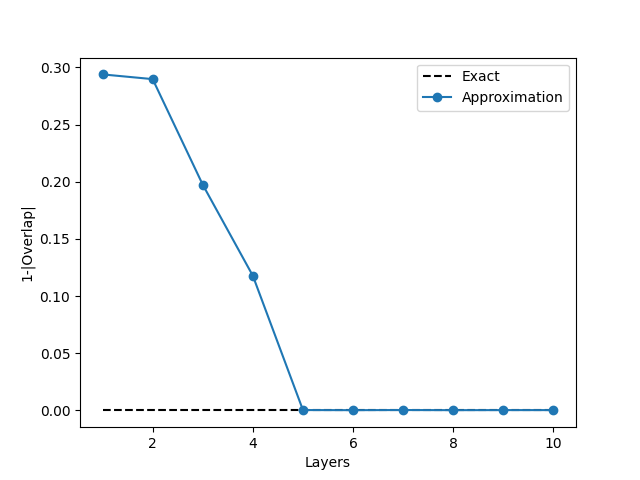
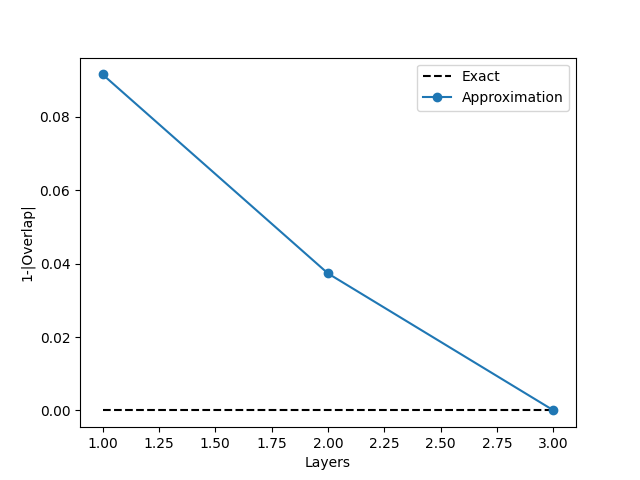
changed plotting functions to take array of approximations

diff --git a/Luca/Coding and Latex/Python/plots_9.py b/Luca/Coding and Latex/Python/plots_9.py
@@ -4,25 +4,24 @@ import ExactDiag_21 as ed
 import Entropy as en
 import matplotlib.pyplot as plt
 
-N = 6
-j,h = 1,1
-exactD = ed.exactDiag(N, j, h)
-psiTarget = exactD[2].reshape(tuple([2]*N))
-exactE = exactD[1]
-H = exactD[0]
+# N = 6
+# j,h = 1,1
+# exactD = ed.exactDiag(N, j, h)
+# psiTarget = exactD[2].reshape(tuple([2]*N))
+# exactE = exactD[1]
+# H = exactD[0]
 
-def plotEnergy(psiTarget,exactE,H,maxLayers):
+def plotEnergy(psiTarget,approxStates,exactE,H):
 	N = len(psiTarget.shape)
 	fig, ax = plt.subplots()
-	x = range(1,maxLayers+1)
-	ax.plot([1,maxLayers],[exactE,exactE],'--k',label='Exact')
+	x = range(1,len(approxStates)+1)
+	ax.plot([1,len(approxStates)],[exactE,exactE],'--k',label='Exact')
 	ax.set_xlabel('Layers')
 	ax.set_ylabel('Energy')
 	E = []
 
-	for layer in x:
-		circuit = bw.BrickWallCircuit(N, layer)
-		approx = circuit.optimize(psiTarget,0.00001,1000*layer).flatten()
+	for approx in approxStates:
+		approx = approx.flatten()
 		E.append(np.vdot(approx,np.matmul(H,approx)))
 
 	ax.plot(x,E,'o-',label='Approximation')
@@ -30,18 +29,17 @@ def plotEnergy(psiTarget,exactE,H,maxLayers):
 	fig.savefig('../plots/energyPlot.png',format='png')
 	plt.show()
 
-def plotOvelap(psiTarget,maxLayers):
+def plotOvelap(psiTarget,approxStates):
 	N = len(psiTarget.shape)
 	fig, ax = plt.subplots()
-	x = range(1,maxLayers+1)
-	ax.plot([1,maxLayers],[0,0],'--k',label='Exact')
+	x = range(1,len(approxStates)+1)
+	ax.plot([1,len(approxStates)],[0,0],'--k',label='Exact')
 	ax.set_xlabel('Layers')
 	ax.set_ylabel('1-|Overlap|')
 	overlap = []
 
-	for layer in x:
-		circuit = bw.BrickWallCircuit(N, layer)
-		approx = circuit.optimize(psiTarget,0.00001,1000*layer).flatten()
+	for approx in approxStates:
+		approx = approx.flatten()
 		overlap.append(np.abs(np.vdot(approx,psiTarget.flatten())))
 
 	ax.plot(x,1-np.array(overlap),'o-',label='Approximation')
@@ -49,7 +47,7 @@ def plotOvelap(psiTarget,maxLayers):
 	fig.savefig('../plots/overlapPlot.png',format='png')
 	plt.show()
 
-def plotS(psiTarget,layers):
+def plotS(psiTarget,approxStates,layers):
 	N = len(psiTarget.shape)
 	bond = range(N+1)
 	fig, ax = plt.subplots()
@@ -58,22 +56,18 @@ def plotS(psiTarget,layers):
 	ax.set_xlabel('i bond')
 	ax.set_ylabel('Entropy')
 
-	for layer in layers:
-		circuit = bw.BrickWallCircuit(N, layer)
-		approx = circuit.optimize(psiTarget,0.00001,1000*layer)
-
+	for approx,layer in zip(approxStates,layers):
 		enApprox = [en.S(range(1,i+1), approx) for i in bond]
-
-		ax.plot(bond,enApprox,'o-', label=f'{layer} Layers')
+		ax.plot(bond,enApprox,'o-',label=f'{layer} Layers')
 
 
 	ax.legend()
 	fig.savefig('../plots/entropyPlots.png',format='png')
 	plt.show()
 
-def plotMatrixI(psiTarget,layers):
+def plotMatrixI(psiTarget,approxStates,layers):
 	N = len(psiTarget.shape)
-	fig , axs = plt.subplots(1,len(layers)+1,layout='constrained')
+	fig , axs = plt.subplots(1,len(approxStates)+1,layout='constrained')
 	alpha = ['']+list(range(1,N+1))
 
 	exact = en.matrixI(psiTarget)
@@ -85,9 +79,7 @@ def plotMatrixI(psiTarget,layers):
 	axs[0].set_yticklabels(alpha)
 	axs[0].set_title(f'Exact', weight='bold')
 
-	for layer in layers:
-		circuit = bw.BrickWallCircuit(8, layer)
-		approx = circuit.optimize(psiTarget,0.00001,1000*layer)
+	for approx,layer in zip(approxStates,layers):
 		matrixApprox = en.matrixI(approx) 
 
 		axs[layer].matshow(matrixApprox,cmap=plt.cm.Oranges)
@@ -99,7 +91,7 @@ def plotMatrixI(psiTarget,layers):
 	fig.savefig('../plots/matrixCmPlots.png',format='png')
 	plt.show()
 
-def plotJ(psiTarget,layers,log=False):
+def plotJ(psiTarget,approxStates,layers,log=False):
 	N = len(psiTarget.shape)
 	fig, ax  = plt.subplots()
 	d = np.array(range(1,N))
@@ -115,9 +107,7 @@ def plotJ(psiTarget,layers,log=False):
 		ax.set_xlabel('d')
 		ax.set_ylabel('J')
 
-	for layer in layers:
-		circuit = bw.BrickWallCircuit(N, layer)
-		approx = circuit.optimize(psiTarget,0.00001,1000*layer)
+	for approx,layer in zip(approxStates,layers):
 		approxJ = np.array([en.J(dist, approx) for dist in d])
 
 		ax.plot(d,approxJ,'o-',label=f'Layers: {layer}')
@@ -129,14 +119,14 @@ def plotJ(psiTarget,layers,log=False):
 	ax.legend()
 	plt.show() 
 
-def plotOvelap_sweeps(psiTarget,j,h,layers,maxIterations,runs):
+def plotOvelap_sweeps(psiTarget,j,h,approxStatesRand,approxStatesId,layers):
 	N = len(psiTarget.shape)
 	fig, ax = plt.subplots(len(layers),2,layout='constrained')
 
-	for layer in layers:
-		for  i in range(runs):
-			circuit = bw.BrickWallCircuit(N, layer,gatesRandomFlag=True)
-			overlapArray, criteria1, criteria2 = circuit.optimize(psiTarget, 0.001, maxIterations)[1:]
+	for approxRBach,approxIdBach,layer in zip(approxStatesRand,approxStatesId,layers):
+		#layer = np.where(approxStatesRand==approxR)[0][0]+1
+		for  approxR,approxId in zip(approxRBach,approxIdBach):
+			overlapArray, criteria1, criteria2 = approxR
 			ax[layer-1,0].plot(range(1,len(overlapArray)+1),1-overlapArray, '-b')
 			if criteria1!=None:	
 				ax[layer-1,0].plot(criteria1[0],1-criteria1[1],'xr')
@@ -147,8 +137,7 @@ def plotOvelap_sweeps(psiTarget,j,h,layers,maxIterations,runs):
 			ax[layer-1,0].set_ylabel('log(1-|Overlap|)')
 			ax[layer-1,0].set_xlabel('log(sweeps)')
 
-			circuit = bw.BrickWallCircuit(N, layer)
-			overlapArray, criteria1, criteria2 = circuit.optimize(psiTarget, 0.001, maxIterations)[1:]
+			overlapArray, criteria1, criteria2 = approxId
 			ax[layer-1,1].plot(range(1,len(overlapArray)+1),1-overlapArray,'-b')
 			if criteria1!=None:
 				ax[layer-1,1].plot(criteria1[0],1-criteria1[1],'xr')
@@ -171,4 +160,4 @@ def plotOvelap_sweeps(psiTarget,j,h,layers,maxIterations,runs):
 #plotJ(psiTarget, [1,2,3],True)
 #plotEnergy(psiTarget, exactE, H, 10)
 #plotOvelap(psiTarget, 10)
-plotOvelap_sweeps(psiTarget,j,h, [1,2,3], 300, 10)
+#plotOvelap_sweeps(psiTarget,j,h, [1,2,3], 300, 10)

diff --git a/Luca/Coding and Latex/Python/testing.py b/Luca/Coding and Latex/Python/testing.py
@@ -2,19 +2,30 @@ import numpy as np
 import BrickWall_51 as bw
 import ExactDiag_21 as ed
 import Entropy as en
+import plots_9 as plts
 
-circuit = bw.BrickWallCircuit(6,3, gatesRandomFlag=False)
-psiTarget = ed.exactDiag(circuit.N, 1, 1)[2].reshape(tuple([2]*circuit.N))
+N = 6
+j,h = 1,1
+exactD = ed.exactDiag(N, j, h)
+psiTarget = exactD[2].reshape(tuple([2]*N))
+exactE = exactD[1]
+H = exactD[0]
+
+#circuit = bw.BrickWallCircuit(6,3, gatesRandomFlag=False)
+#print(circuit.optimize(psiTarget,0.0001,500)[1:])
 #psiTarget = (1/np.sqrt(2))*np.array([1,0,0,1]).reshape(2,2) #bell state
-# A = [1,4,5]
-# B = [2]
 
-# entropy = en.S([1,4,5], psiTarget)
-# print(entropy)
+layers = [1,2,3]
+approxStates = [bw.BrickWallCircuit(N,M,gatesRandomFlag=True).optimize(psiTarget, 0.0001, 1000)[0] for M in layers]
 
-# mutualI = en.I(A,B, psiTarget)
-# print(mutualI)
+plts.plotEnergy(psiTarget, approxStates, exactE, H)
+plts.plotOvelap(psiTarget, approxStates)
+plts.plotS(psiTarget, approxStates,layers)
+plts.plotMatrixI(psiTarget, approxStates,layers)
+plts.plotJ(psiTarget, approxStates,layers)
+plts.plotJ(psiTarget, approxStates,layers,log=True)
 
-# print(np.array(en.matrixI(psiTarget)))
+approxStatesRand = [[bw.BrickWallCircuit(N,M,gatesRandomFlag=True).optimize(psiTarget, 0.0001, 1000)[1:] for i in range(10)] for M in layers]
+approxStatesId = [[bw.BrickWallCircuit(N,M,gatesRandomFlag=False).optimize(psiTarget, 0.0001, 1000)[1:] for i in range(10)] for M in layers]
 
-print(circuit.optimize(psiTarget,0.0001,1000)[2:])
+plts.plotOvelap_sweeps(psiTarget, j, h, approxStatesRand, approxStatesId,layers)

diff --git a/Luca/Coding and Latex/Python/BrickWall_51.py b/Luca/Coding and Latex/Python/BrickWall_51.py
@@ -84,6 +84,7 @@ class BrickWallCircuit:
 				nrGatesOnLayer = int(np.floor((self.N-indexLayer%2)/2))
 				for gateIndex in range(nrGatesOnLayer): #iterate through gates on that layer
 					E, gateRm = self.removeGate(psiTarget,indexLayer,gateIndex)
+					#E_new = gateRm + 0.5*E
 					W, sigma, Vdagger = np.linalg.svd(np.conjugate(E.reshape(4,4)))
 					newGate = np.matmul(W,Vdagger).reshape(2,2,2,2) #get the new gate that will maximize the fidelity
 

diff --git a/Luca/Coding and Latex/HPC/scripts/main.py b/Luca/Coding and Latex/HPC/scripts/main.py
@@ -15,4 +15,4 @@ param = parameters[which]
 N,j,h,layers,maxIterations,runs = param.values()
 psiTarget = ed.exactDiag(N, j, h)[2].reshape(tuple([2]*N))
 plts.plotOvelap_sweeps(psiTarget, j, h, layers, maxIterations, runs)
-#p = f"N = {str(param['N'])} M = {str(param['M'])} j = {str(param['j'])} h = {str(param['h'])}"
+
